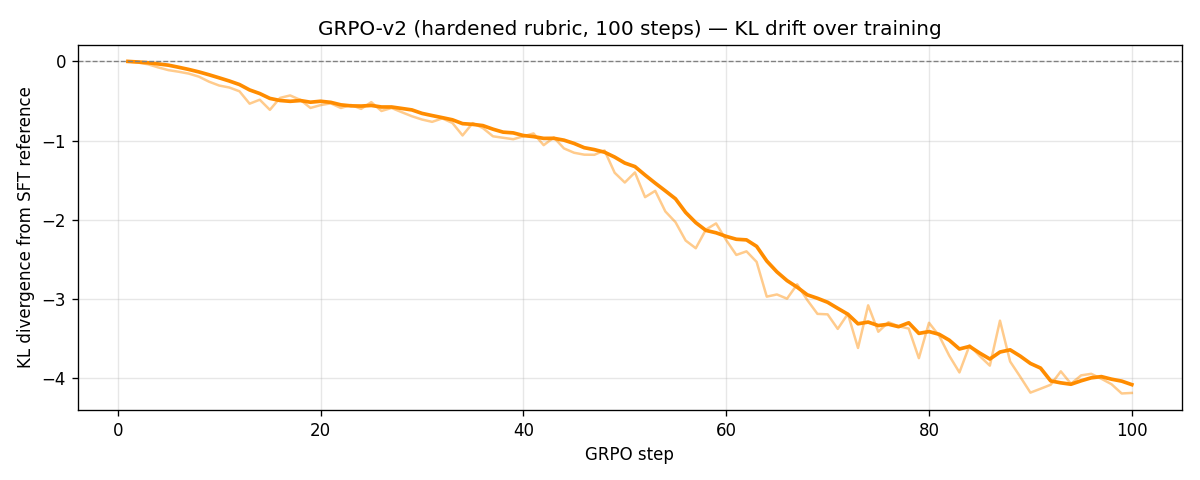
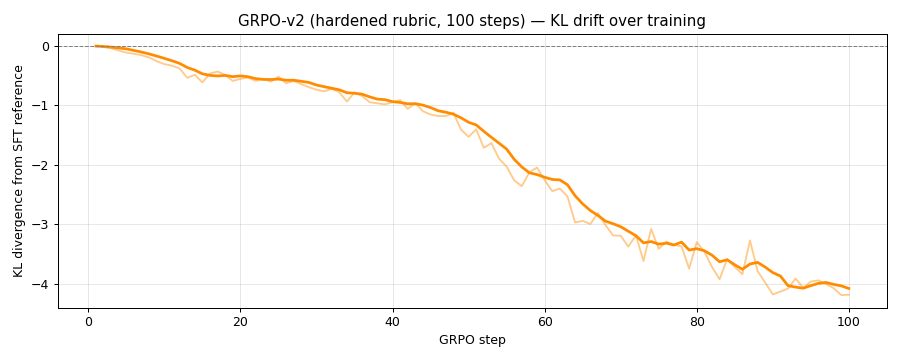
Reduce plot DPI 120->90 so PNGs fit HF Space <100KB binary push limit

diff --git a/local_training/make_plots.py b/local_training/make_plots.py
@@ -78,7 +78,7 @@ def plot_training_curves(
         bbox=dict(boxstyle="round,pad=0.4", facecolor="white", edgecolor="grey"),
     )
     fig.tight_layout()
-    fig.savefig(PLOTS / f"reward_curve_{out_prefix}.png", dpi=120)
+    fig.savefig(PLOTS / f"reward_curve_{out_prefix}.png", dpi=90)
     plt.close(fig)
     print(f"[ok] saved reward_curve_{out_prefix}.png")
 
@@ -92,7 +92,7 @@ def plot_training_curves(
     ax.set_title(f"{label} — KL drift over training")
     ax.grid(True, alpha=0.3)
     fig.tight_layout()
-    fig.savefig(PLOTS / f"kl_curve_{out_prefix}.png", dpi=120)
+    fig.savefig(PLOTS / f"kl_curve_{out_prefix}.png", dpi=90)
     plt.close(fig)
     print(f"[ok] saved kl_curve_{out_prefix}.png")
 
@@ -163,7 +163,7 @@ def plot_two_tier_bar_chart(
     ax.grid(True, alpha=0.25, axis="y")
     ax.legend(loc="upper left")
     fig.tight_layout()
-    fig.savefig(PLOTS / out_name, dpi=120)
+    fig.savefig(PLOTS / out_name, dpi=90)
     plt.close(fig)
     print(f"[ok] saved {out_name}")
 
@@ -204,7 +204,7 @@ def plot_per_task_heatmap(
     ax.set_title("Per-task grade — easy (left of divider) vs hard (right)")
     plt.colorbar(im, ax=ax, fraction=0.02, pad=0.02, label="grade")
     fig.tight_layout()
-    fig.savefig(PLOTS / out_name, dpi=120)
+    fig.savefig(PLOTS / out_name, dpi=90)
     plt.close(fig)
     print(f"[ok] saved {out_name}")
 
@@ -257,7 +257,7 @@ def plot_rubric_hardening_story(out_name: str = "rubric_hardening_story.png") ->
     ax.grid(True, alpha=0.25, axis="y")
     ax.legend(loc="upper left")
     fig.tight_layout()
-    fig.savefig(PLOTS / out_name, dpi=120)
+    fig.savefig(PLOTS / out_name, dpi=90)
     plt.close(fig)
     print(f"[ok] saved {out_name}")
 
